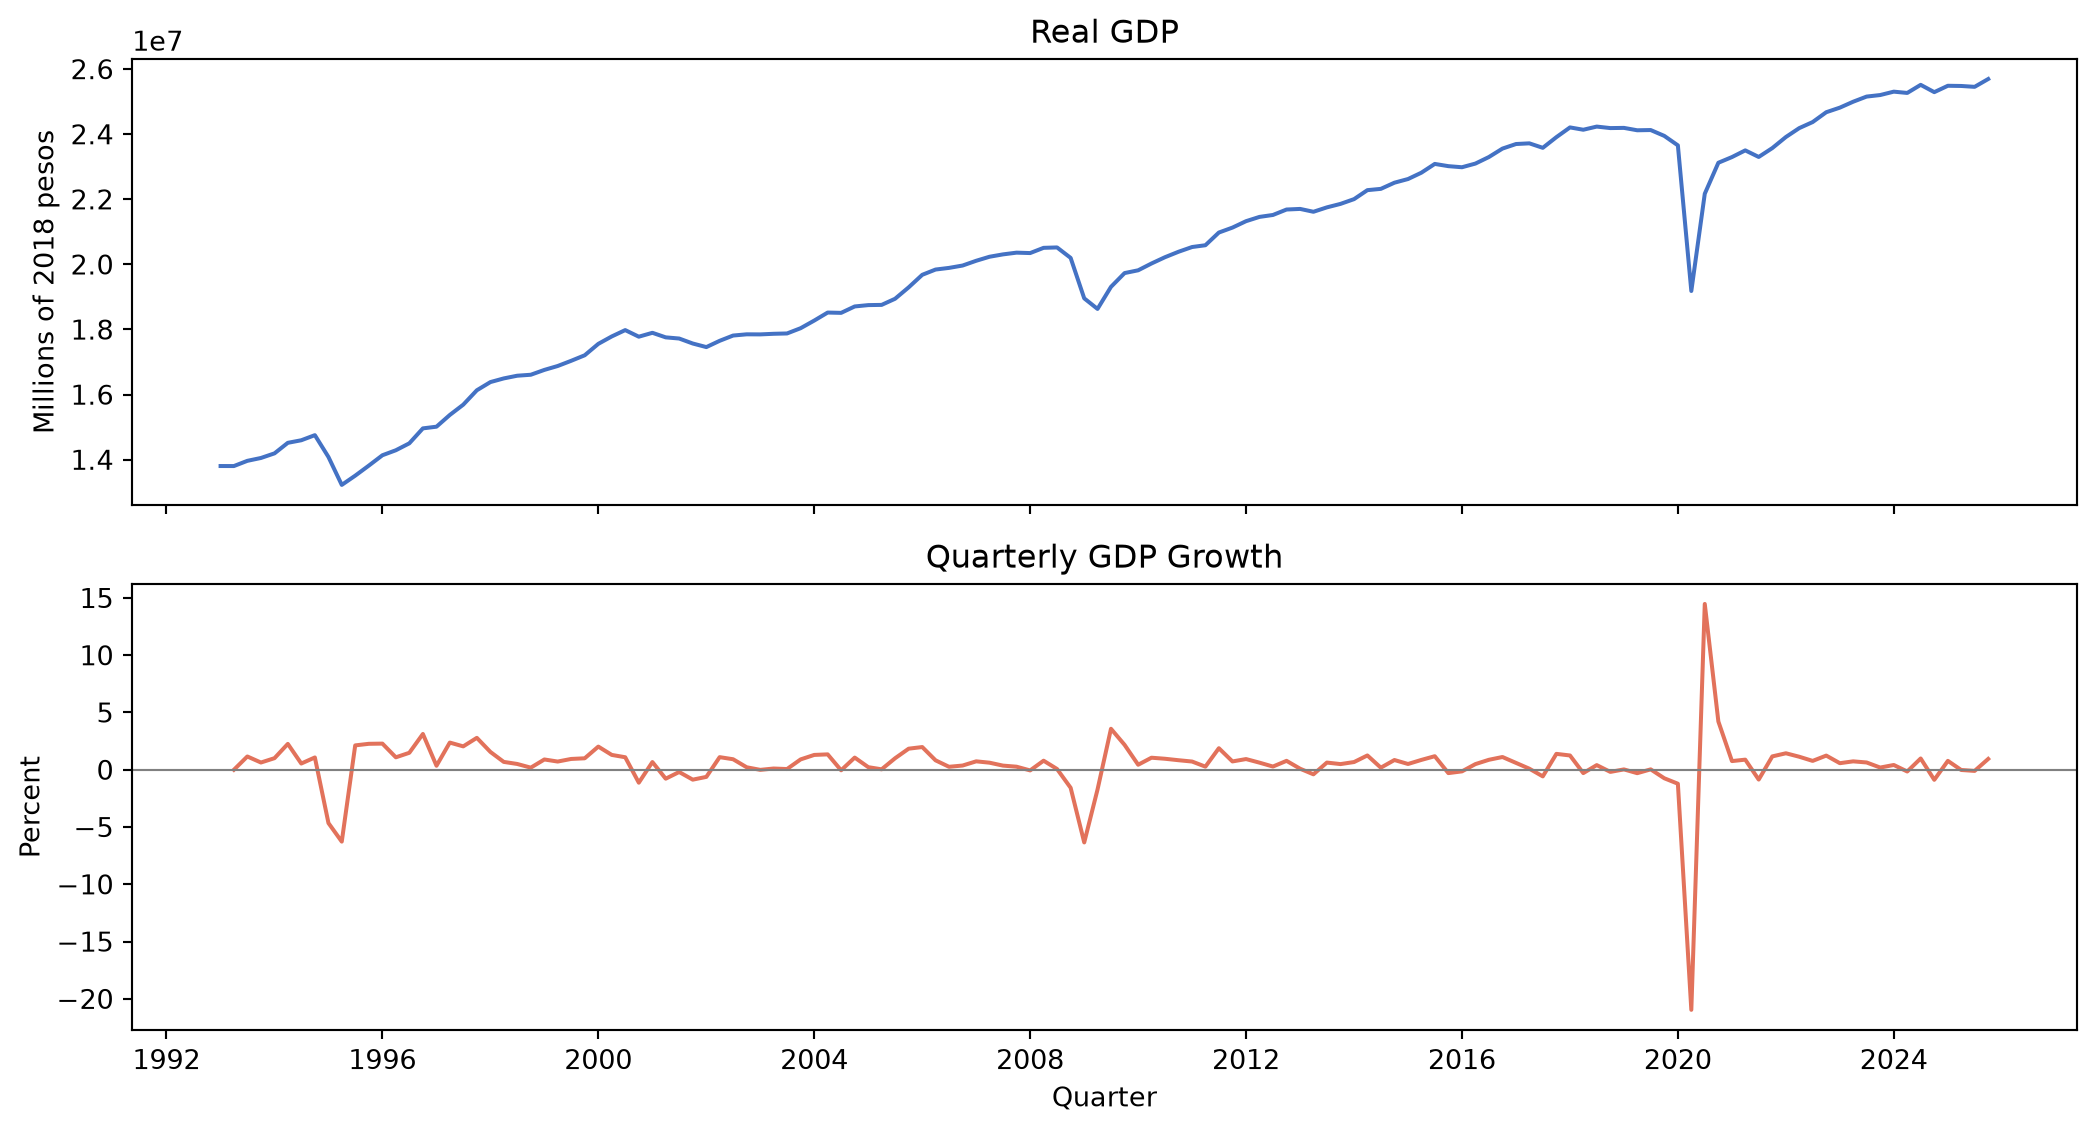
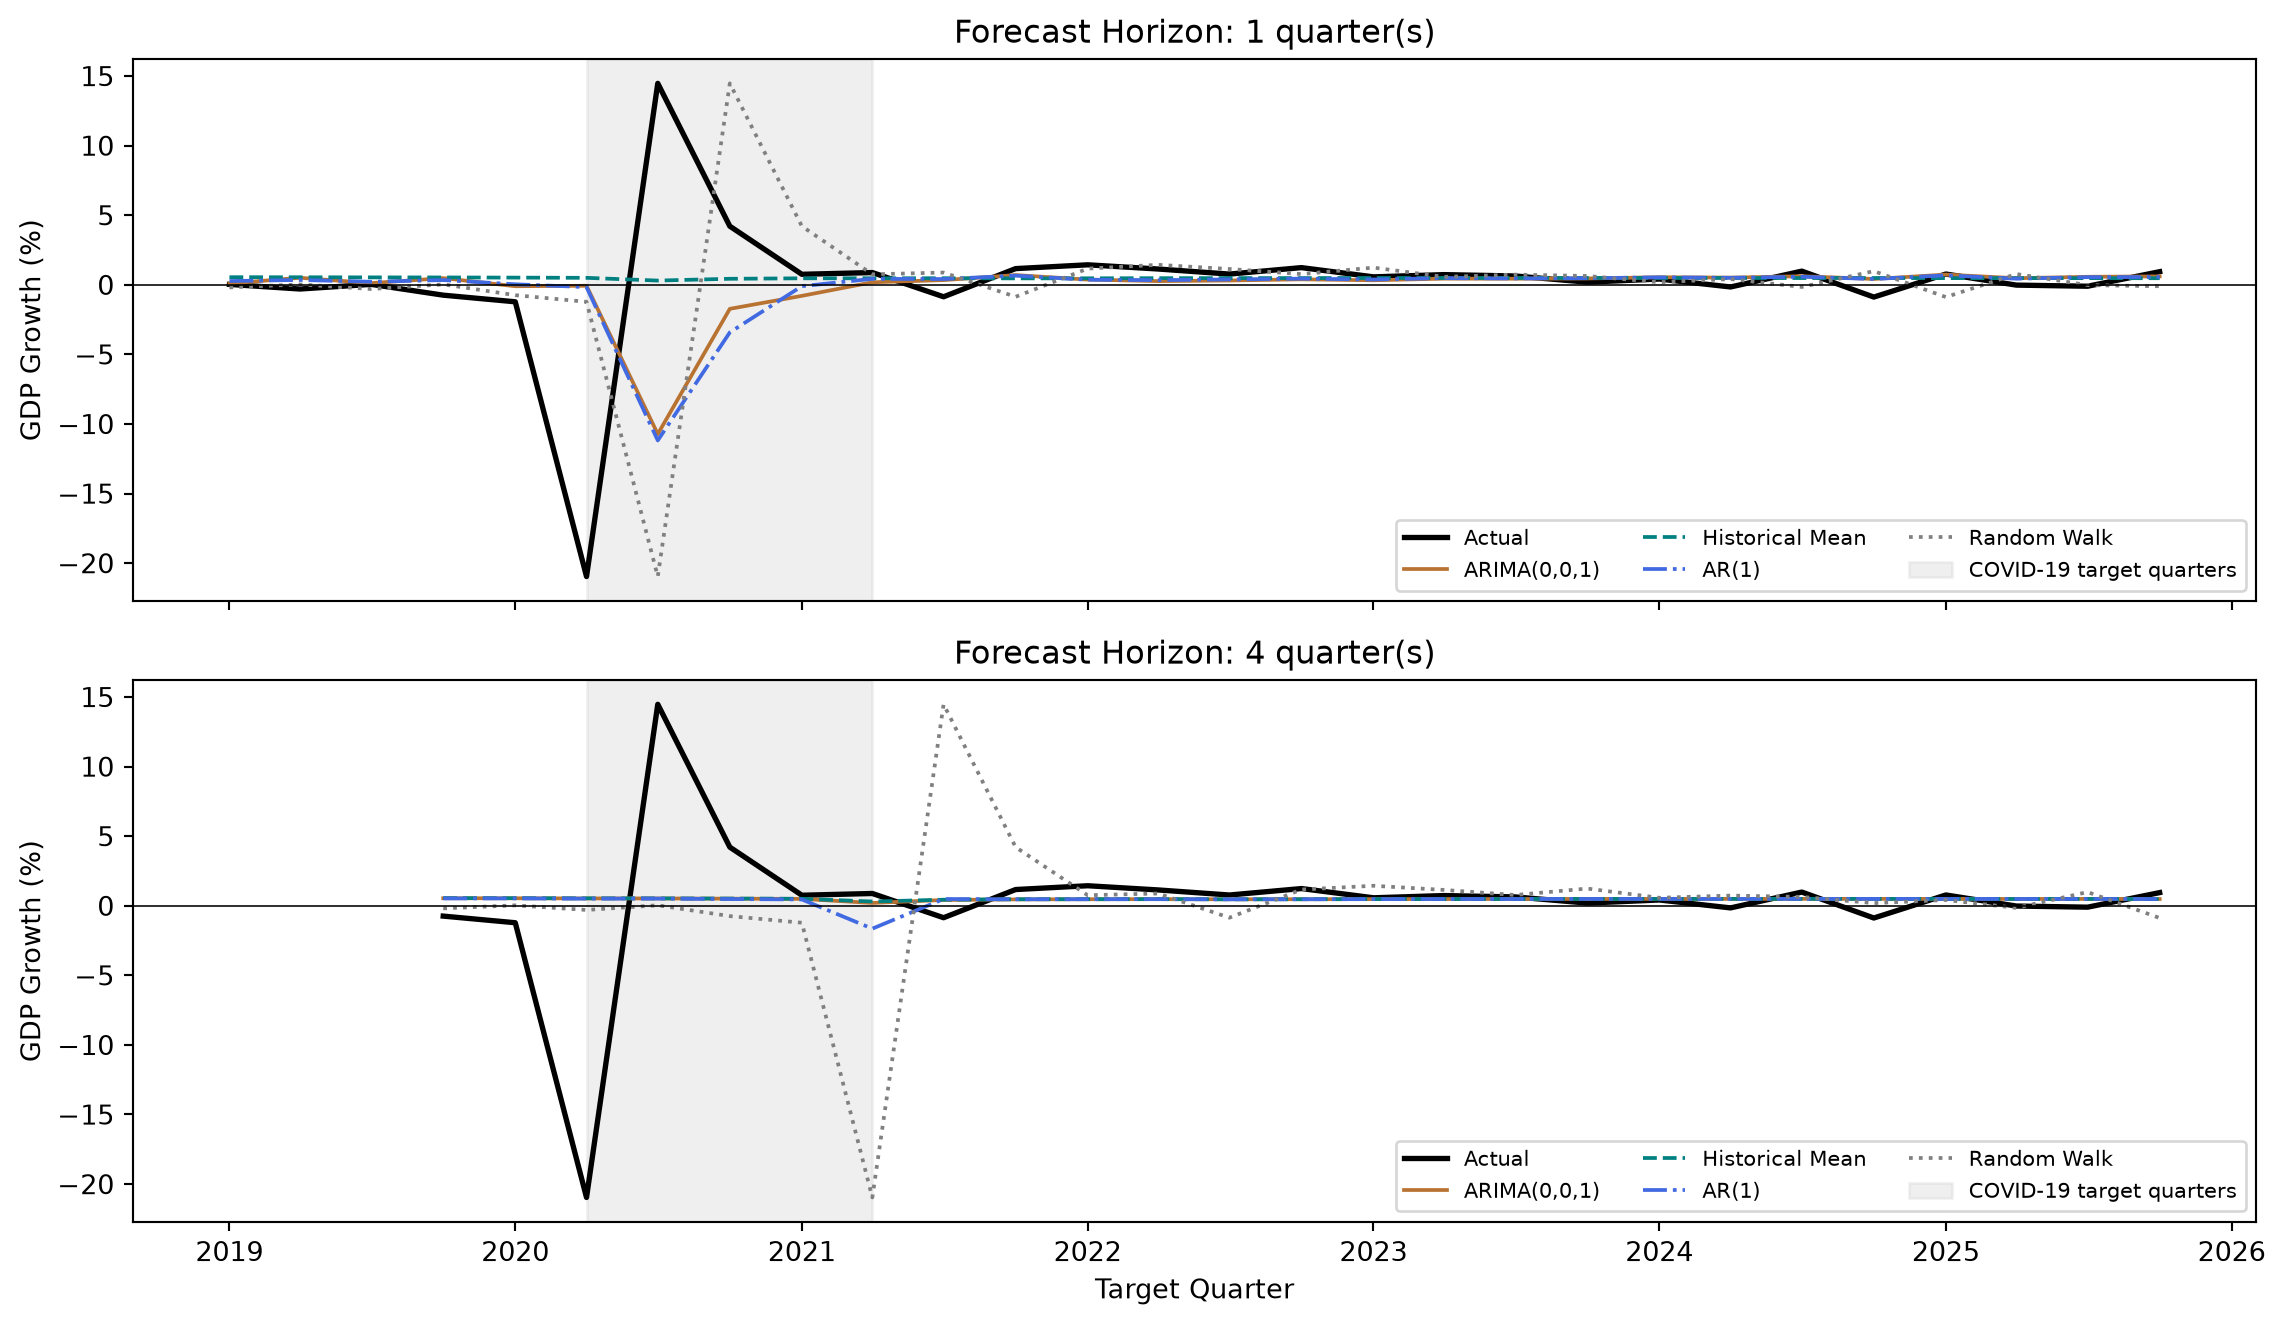
changes

diff --git a/dashboard/dashboard.html b/dashboard/dashboard.html
@@ -79,7 +79,7 @@ ul.task-list li input[type="checkbox"] {
         <div class="navbar-author">Lucia Mata</div>
       </div>
     </div>
-<div id="dashboard-collapse" class="navbar-collapse collapse"><ul class="navbar-nav navbar-nav-scroll me-auto" role="tablist"><li class="nav-item" role="presentation"><a id="tab-overview" class="nav-link active" data-bs-toggle="tab" role="tab" data-bs-target="#overview" data-scrolling="true" href="#overview" aria-controls="overview" aria-selected="true"><span class="nav-link-text">Overview</span></a></li><li class="nav-item" role="presentation"><a id="tab-forecast-results" class="nav-link" data-bs-toggle="tab" role="tab" data-bs-target="#forecast-results" data-scrolling="true" href="#forecast-results" aria-controls="forecast-results" aria-selected="false"><span class="nav-link-text">Forecast Results</span></a></li><li class="nav-item" role="presentation"><a id="tab-dm-hln-tests" class="nav-link" data-bs-toggle="tab" role="tab" data-bs-target="#dm-hln-tests" data-scrolling="true" href="#dm-hln-tests" aria-controls="dm-hln-tests" aria-selected="false"><span class="nav-link-text">DM-HLN Tests</span></a></li><li class="nav-item" role="presentation"><a id="tab-convert-quarterly-targets-into-dates-for-the-x-axis" class="nav-link" data-bs-toggle="tab" role="tab" data-bs-target="#convert-quarterly-targets-into-dates-for-the-x-axis" data-scrolling="true" href="#convert-quarterly-targets-into-dates-for-the-x-axis" aria-controls="convert-quarterly-targets-into-dates-for-the-x-axis" aria-selected="false"><span class="nav-link-text">Convert quarterly targets into dates for the x-axis</span></a></li></ul></div></div>
+<div id="dashboard-collapse" class="navbar-collapse collapse"><ul class="navbar-nav navbar-nav-scroll me-auto" role="tablist"><li class="nav-item" role="presentation"><a id="tab-overview" class="nav-link active" data-bs-toggle="tab" role="tab" data-bs-target="#overview" data-scrolling="true" href="#overview" aria-controls="overview" aria-selected="true"><span class="nav-link-text">Overview</span></a></li><li class="nav-item" role="presentation"><a id="tab-forecast-results" class="nav-link" data-bs-toggle="tab" role="tab" data-bs-target="#forecast-results" data-scrolling="true" href="#forecast-results" aria-controls="forecast-results" aria-selected="false"><span class="nav-link-text">Forecast Results</span></a></li><li class="nav-item" role="presentation"><a id="tab-row-5" class="nav-link" data-bs-toggle="tab" role="tab" data-bs-target="#row-5" data-scrolling="true" href="#row-5" aria-controls="row-5" aria-selected="false"><span class="nav-link-text">Row</span></a></li><li class="nav-item" role="presentation"><a id="tab-dm-hln-tests" class="nav-link" data-bs-toggle="tab" role="tab" data-bs-target="#dm-hln-tests" data-scrolling="true" href="#dm-hln-tests" aria-controls="dm-hln-tests" aria-selected="false"><span class="nav-link-text">DM-HLN Tests</span></a></li></ul></div></div>
 </nav>
 </header>
 <div class="page-layout-custom quarto-dashboard-content bslib-gap-spacing html-fill-container dashboard-scrolling quarto-dashboard-pages">  
@@ -160,12 +160,12 @@ Mexico Real GDP and Quarterly Growth
 <div class="html-fill-item html-fill-container bslib-grid" style="display: grid; grid-template-columns: minmax(3em, 60fr);
 grid-auto-rows: minmax(0, 1fr);">
 <div class="html-fill-item html-fill-container bslib-grid" style="display: grid; grid-template-rows: minmax(3em, max-content); grid-auto-columns: minmax(0, 1fr);">
-<div class="card cell html-fill-item html-fill-container bslib-card" data-title="Stationarity (ADF Test)" data-fill="false" data-bslib-card-init="" data-require-bs-caller="card()" data-full-screen="false">
+<div class="card cell html-fill-item html-fill-container bslib-card" data-fill="false" data-title="Stationarity (ADF Test)" data-bslib-card-init="" data-require-bs-caller="card()" data-full-screen="false">
 <div class="card-header"><div class="card-title"><span style="display: inline">
 Stationarity (ADF Test)
 </span></div></div>
 <div class="card-body html-fill-item html-fill-container">
-<div class="cell-output cell-output-display cell-output-markdown html-fill-item html-fill-container" data-execution_count="5">
+<div class="cell-output cell-output-display cell-output-markdown html-fill-item html-fill-container" data-execution_count="27">
 <table class="caption-top table table-sm table-striped small">
 <thead>
 <tr class="header">
@@ -455,15 +455,34 @@ Forecast Accuracy — Excluding 2020 Q2–2021 Q1
 </bslib-tooltip><script data-bslib-card-init="">bslib.Card.initializeAllCards();</script></div>
 </div>
 </div>
+<div id="row-5" class="dashboard-page tab-pane grid-skip html-fill-item html-fill-container" data-orientation="rows" aria-labelledby="tab-row-5">
+<div class="html-fill-item html-fill-container bslib-grid" style="display: grid; grid-template-rows: minmax(3em, 1fr); grid-auto-columns: minmax(0, 1fr);">
+<div class="card cell html-fill-item html-fill-container bslib-card" data-title="Actual and Forecasted Quarterly GDP Growth" data-bslib-card-init="" data-require-bs-caller="card()" data-full-screen="false">
+<div class="card-header"><div class="card-title"><span style="display: inline">
+Actual and Forecasted Quarterly GDP Growth
+</span></div></div>
+<div class="card-body html-fill-item html-fill-container">
+<div class="cell-output cell-output-display html-fill-item html-fill-container">
+<img src="dashboard_files/figure-html/cell-11-output-1.png" class="quarto-dashboard-img-contain">
+</div>
+</div>
+<bslib-tooltip placement="auto" bsoptions="[]" data-require-bs-version="5" data-require-bs-caller="tooltip()">
+    <template>Expand</template>
+    <span class="bslib-full-screen-enter badge rounded-pill">
+        <svg xmlns="http://www.w3.org/2000/svg" viewbox="0 0 24 24" style="height:1em;width:1em;" aria-hidden="true" role="img"><path d="M20 5C20 4.4 19.6 4 19 4H13C12.4 4 12 3.6 12 3C12 2.4 12.4 2 13 2H21C21.6 2 22 2.4 22 3V11C22 11.6 21.6 12 21 12C20.4 12 20 11.6 20 11V5ZM4 19C4 19.6 4.4 20 5 20H11C11.6 20 12 20.4 12 21C12 21.6 11.6 22 11 22H3C2.4 22 2 21.6 2 21V13C2 12.4 2.4 12 3 12C3.6 12 4 12.4 4 13V19Z"></path></svg>
+    </span>
+</bslib-tooltip><script data-bslib-card-init="">bslib.Card.initializeAllCards();</script></div>
+</div>
+</div>
 <div id="dm-hln-tests" class="dashboard-page tab-pane grid-skip html-fill-item html-fill-container" data-orientation="rows" aria-labelledby="tab-dm-hln-tests">
 <div class="html-fill-item html-fill-container bslib-grid" style="display: grid; grid-template-rows: minmax(3em, 45fr) minmax(3em, 55fr); grid-auto-columns: minmax(0, 1fr);">
 <div class="card tabset html-fill-item html-fill-container bslib-card" data-bslib-card-init="" data-require-bs-caller="card()" data-full-screen="false">
 <div class="card-header dashboard-card-no-title bslib-navs-card-title">
 
-<ul class="nav nav-tabs card-header-tabs" role="tablist" data-tabsetid="card-tabset-10"><li class="nav-item" role="presentation"><a href="#card-tabset-10-1" role="tab" data-toggle="tab" data-bs-toggle="tab" data-value="Full Sample" aria-selected="true" class="nav-link active">Full Sample</a></li><li class="nav-item" role="presentation"><a href="#card-tabset-10-2" role="tab" data-toggle="tab" data-bs-toggle="tab" data-value="Excluding COVID-19" aria-selected="false" class="nav-link">Excluding COVID-19</a></li></ul></div>
+<ul class="nav nav-tabs card-header-tabs" role="tablist" data-tabsetid="card-tabset-11"><li class="nav-item" role="presentation"><a href="#card-tabset-11-1" role="tab" data-toggle="tab" data-bs-toggle="tab" data-value="Full Sample" aria-selected="true" class="nav-link active">Full Sample</a></li><li class="nav-item" role="presentation"><a href="#card-tabset-11-2" role="tab" data-toggle="tab" data-bs-toggle="tab" data-value="Excluding COVID-19" aria-selected="false" class="nav-link">Excluding COVID-19</a></li></ul></div>
 
 
-<div class="tab-content html-fill-item html-fill-container" data-tabset-id="card-tabset-10"><div class="tab-pane active show html-fill-item html-fill-container" role="tabpanel" id="card-tabset-10-1"><div class="card-body html-fill-item html-fill-container" data-title="Full Sample">
+<div class="tab-content html-fill-item html-fill-container" data-tabset-id="card-tabset-11"><div class="tab-pane active show html-fill-item html-fill-container" role="tabpanel" id="card-tabset-11-1"><div class="card-body html-fill-item html-fill-container" data-title="Full Sample">
 <div class="html-fill-item html-fill-container bslib-grid" style="display: grid; grid-template-columns: minmax(3em, 1fr);
 grid-auto-rows: minmax(0, 1fr);">
 <div class="card cell html-fill-item html-fill-container bslib-card" data-title="DM-HLN Tests — Full Sample" data-bslib-card-init="" data-require-bs-caller="card()" data-full-screen="false">
@@ -543,7 +562,7 @@ DM-HLN Tests — Full Sample
     </span>
 </bslib-tooltip><script data-bslib-card-init="">bslib.Card.initializeAllCards();</script></div>
 </div>
-</div></div><div class="tab-pane html-fill-item html-fill-container" role="tabpanel" id="card-tabset-10-2"><div class="card-body html-fill-item html-fill-container" data-title="Excluding COVID-19">
+</div></div><div class="tab-pane html-fill-item html-fill-container" role="tabpanel" id="card-tabset-11-2"><div class="card-body html-fill-item html-fill-container" data-title="Excluding COVID-19">
 <div class="html-fill-item html-fill-container bslib-grid" style="display: grid; grid-template-columns: minmax(3em, 1fr);
 grid-auto-rows: minmax(0, 1fr);">
 <div class="card cell html-fill-item html-fill-container bslib-card" data-title="DM-HLN Tests — Excluding COVID-19" data-bslib-card-init="" data-require-bs-caller="card()" data-full-screen="false">
@@ -629,118 +648,10 @@ DM-HLN Tests — Excluding COVID-19
         <svg xmlns="http://www.w3.org/2000/svg" viewbox="0 0 24 24" style="height:1em;width:1em;" aria-hidden="true" role="img"><path d="M20 5C20 4.4 19.6 4 19 4H13C12.4 4 12 3.6 12 3C12 2.4 12.4 2 13 2H21C21.6 2 22 2.4 22 3V11C22 11.6 21.6 12 21 12C20.4 12 20 11.6 20 11V5ZM4 19C4 19.6 4.4 20 5 20H11C11.6 20 12 20.4 12 21C12 21.6 11.6 22 11 22H3C2.4 22 2 21.6 2 21V13C2 12.4 2.4 12 3 12C3.6 12 4 12.4 4 13V19Z"></path></svg>
     </span>
 </bslib-tooltip><script data-bslib-card-init="">bslib.Card.initializeAllCards();</script></div>
-<div class="html-fill-item html-fill-container bslib-grid" style="display: grid; grid-template-rows: minmax(3em, max-content); grid-auto-columns: minmax(0, 1fr);">
-<div class="card html-fill-item html-fill-container bslib-card" data-fill="false" data-bslib-card-init="" data-require-bs-caller="card()" data-full-screen="false">
-<div class="card-body html-fill-item html-fill-container">
-<p>#| title: “Actual and Forecasted Quaterly Real GDP Growth”</p>
-<p>from pathlib import Path</p>
-<p>plot_data = forecast_results.copy()</p>
-</div>
-<bslib-tooltip placement="auto" bsoptions="[]" data-require-bs-version="5" data-require-bs-caller="tooltip()">
-    <template>Expand</template>
-    <span class="bslib-full-screen-enter badge rounded-pill">
-        <svg xmlns="http://www.w3.org/2000/svg" viewbox="0 0 24 24" style="height:1em;width:1em;" aria-hidden="true" role="img"><path d="M20 5C20 4.4 19.6 4 19 4H13C12.4 4 12 3.6 12 3C12 2.4 12.4 2 13 2H21C21.6 2 22 2.4 22 3V11C22 11.6 21.6 12 21 12C20.4 12 20 11.6 20 11V5ZM4 19C4 19.6 4.4 20 5 20H11C11.6 20 12 20.4 12 21C12 21.6 11.6 22 11 22H3C2.4 22 2 21.6 2 21V13C2 12.4 2.4 12 3 12C3.6 12 4 12.4 4 13V19Z"></path></svg>
-    </span>
-</bslib-tooltip><script data-bslib-card-init="">bslib.Card.initializeAllCards();</script></div>
-</div>
-</div>
-</div>
-<div id="convert-quarterly-targets-into-dates-for-the-x-axis" class="dashboard-page tab-pane grid-skip html-fill-item html-fill-container" data-orientation="rows" aria-labelledby="tab-convert-quarterly-targets-into-dates-for-the-x-axis">
-<div class="html-fill-item html-fill-container bslib-grid" style="display: grid; grid-template-rows: minmax(3em, max-content); grid-auto-columns: minmax(0, 1fr);">
-<div class="card html-fill-item html-fill-container bslib-card" data-fill="false" data-bslib-card-init="" data-require-bs-caller="card()" data-full-screen="false">
-<div class="card-body html-fill-item html-fill-container">
-<p>plot_data[“Target_Date”] = pd.PeriodIndex( plot_data[“Target”].astype(str), freq=“Q” ).to_timestamp()</p>
-<p>fig, axes = plt.subplots( 2, 1, figsize=(11, 8), sharex=True, sharey=True )</p>
-<p>for ax, h in zip(axes, [1, 4]):</p>
-<pre><code>data_h = plot_data[
-    plot_data["Horizon"] == h
-].sort_values("Target_Date")
-
-# Actual GDP growth
-ax.plot(
-    data_h["Target_Date"],
-    data_h["Actual"],
-    color="black",
-    linewidth=2.2,
-    label="Actual"
-)
-
-# Forecasts
-ax.plot(
-    data_h["Target_Date"],
-    data_h["ARIMA_Forecast"],
-    color="#B87333",
-    linewidth=1.5,
-    label="ARIMA(0,0,1)"
-)
-
-ax.plot(
-    data_h["Target_Date"],
-    data_h["Mean_Forecast"],
-    color="#008080",
-    linestyle="--",
-    linewidth=1.4,
-    label="Historical Mean"
-)
-
-ax.plot(
-    data_h["Target_Date"],
-    data_h["AR1_Forecast"],
-    color="royalblue",
-    linestyle="-.",
-    linewidth=1.4,
-    label="AR(1)"
-)
-
-ax.plot(
-    data_h["Target_Date"],
-    data_h["RW_Forecast"],
-    color="gray",
-    linestyle=":",
-    linewidth=1.4,
-    label="Random Walk"
-)
-
-# Shade the COVID-19 target quarters
-ax.axvspan(
-    pd.Period("2020Q2", freq="Q").start_time,
-    pd.Period("2021Q1", freq="Q").end_time,
-    color="lightgray",
-    alpha=0.35,
-    label="COVID-19 period"
-)
-
-ax.axhline(
-    0,
-    color="black",
-    linewidth=0.6
-)
-
-ax.set_title(
-    f"Out-of-Sample Forecasts — h = {h}"
-)
-
-ax.set_ylabel("GDP Growth (%)")
-ax.legend(
-    fontsize=8,
-    ncol=3,
-    loc="lower right"
-)</code></pre>
-<p>axes[1].set_xlabel(“Target Quarter”)</p>
-<p>fig.suptitle( “Actual and Forecasted Quarterly Real GDP Growth”, fontsize=14, fontweight=“bold” )</p>
-fig.tight_layout()
-<p>output_dir = Path(“Project/Output”) output_dir.mkdir(parents=True, exist_ok=True)</p>
-<p>fig.savefig( output_dir / “out_of_sample_forecasts.png”, dpi=300, bbox_inches=“tight” )</p>
-plt.show()
-</div>
-<bslib-tooltip placement="auto" bsoptions="[]" data-require-bs-version="5" data-require-bs-caller="tooltip()">
-    <template>Expand</template>
-    <span class="bslib-full-screen-enter badge rounded-pill">
-        <svg xmlns="http://www.w3.org/2000/svg" viewbox="0 0 24 24" style="height:1em;width:1em;" aria-hidden="true" role="img"><path d="M20 5C20 4.4 19.6 4 19 4H13C12.4 4 12 3.6 12 3C12 2.4 12.4 2 13 2H21C21.6 2 22 2.4 22 3V11C22 11.6 21.6 12 21 12C20.4 12 20 11.6 20 11V5ZM4 19C4 19.6 4.4 20 5 20H11C11.6 20 12 20.4 12 21C12 21.6 11.6 22 11 22H3C2.4 22 2 21.6 2 21V13C2 12.4 2.4 12 3 12C3.6 12 4 12.4 4 13V19Z"></path></svg>
-    </span>
-</bslib-tooltip><script data-bslib-card-init="">bslib.Card.initializeAllCards();</script></div>
+<div class="html-fill-item html-fill-container bslib-grid" style="display: grid; grid-template-rows: ; grid-auto-columns: minmax(0, 1fr);">
 <div id="3ade8a4a-fb1d-4a6c-8409-ac45482d5fc9" class="hidden html-fill-item html-fill-container">
 
+</div>
 </div>
 </div>
 </div>
